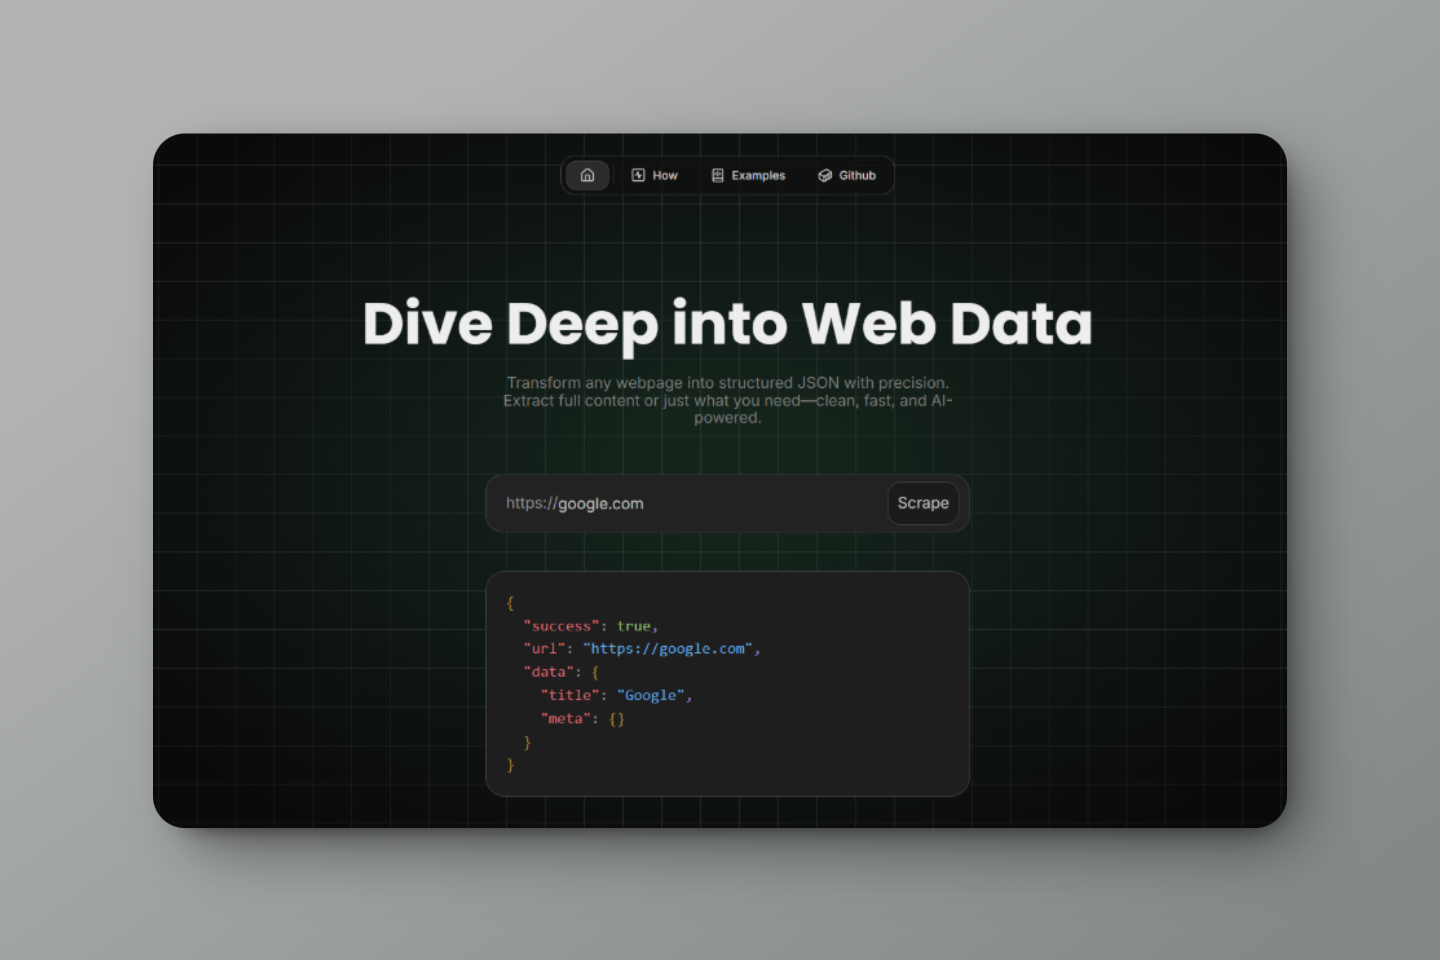
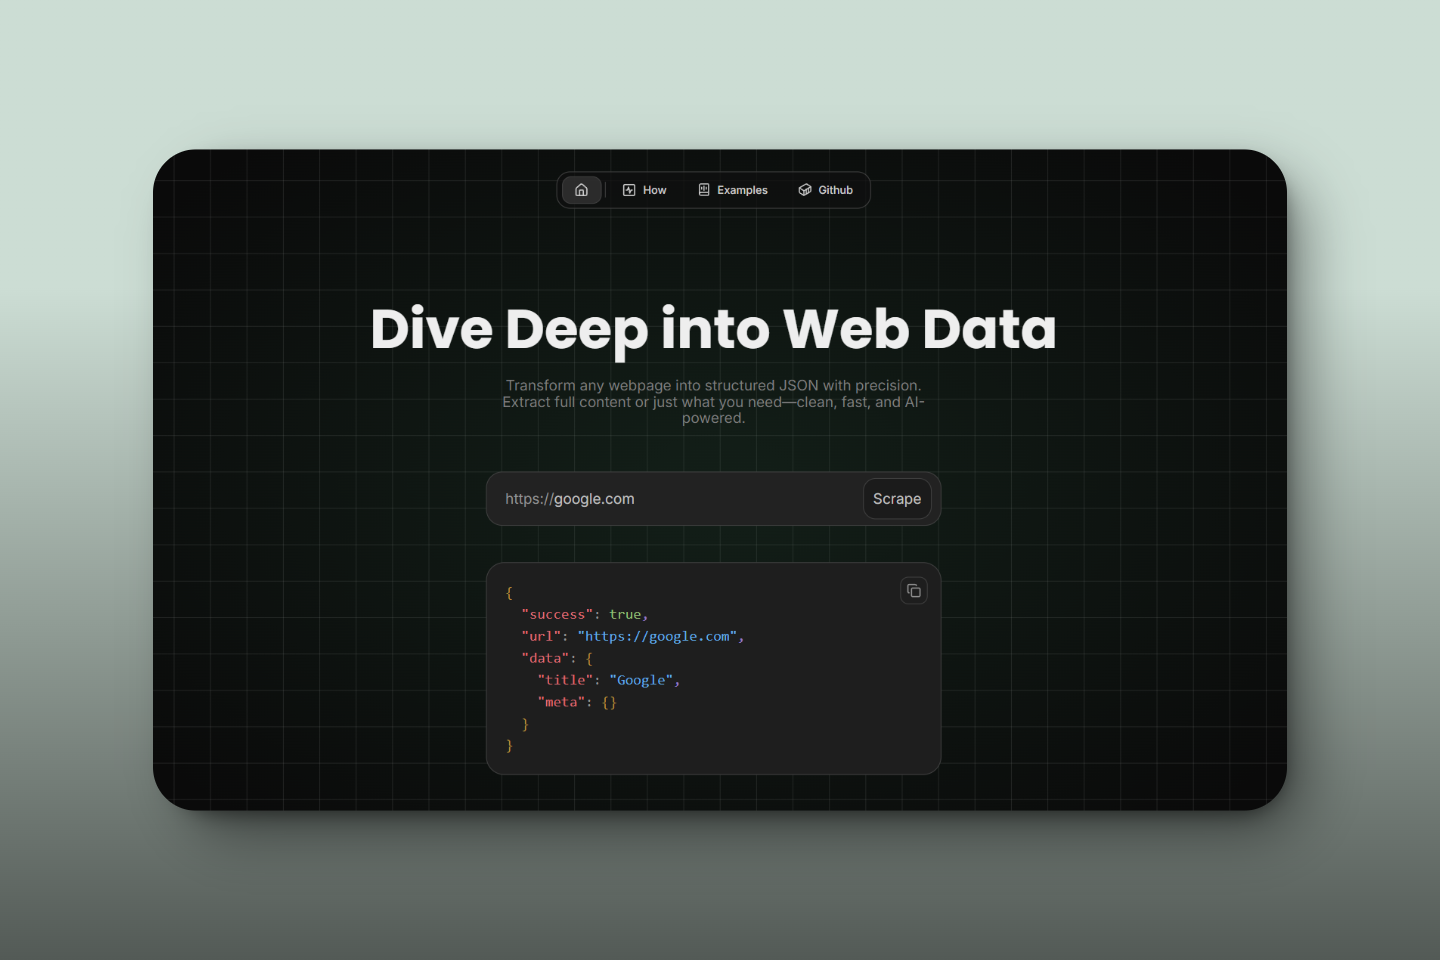
feat: enhance text component with copy functionality
Adds a copy button to the text component for easy copying of JSON 
data. Implements an active state for buttons and input fields. 
Implements Enter key handling for input to trigger scraping and 
clear the URL after a successful scrape. Adjusts background 
gradients for improved visual appearance.

diff --git a/my-ui/text.tsx b/my-ui/text.tsx
@@ -1,4 +1,5 @@
 "use client";
+import { Copy } from "lucide-react";
 import "./text.css";
 import { useState } from "react";
 
@@ -35,6 +36,7 @@ export function Text() {
       // Update with the response data
       setJsonData(data);
       setScrapeStatus(null);
+      setUrl("");
     } catch (error: any) {
       console.error("Error scraping:", error.message);
       setJsonData({ success: false, url, error: error.message });
@@ -79,12 +81,16 @@ export function Text() {
           onChange={(e) => setUrl(e.target.value)}
           value={url}
           spellCheck="false"
+          onKeyPress={(e) => {
+            if (e.key === "Enter") {
+              e.preventDefault();
+              scrapeWebsite();
+              document.activeElement instanceof HTMLElement && document.activeElement.blur();
+              setScrapeStatus(null);
+            }
+          }}
         />
-        <button onClick={scrapeWebsite} className="diveButton" onKeyPress={(e) => {
-          if (e.key === "Enter") {
-            scrapeWebsite();
-          }
-        }} >
+        <button onClick={scrapeWebsite} className="diveButton"  >
           {scrapeStatus ? (
             "Processing..."
           ) : (
@@ -92,7 +98,14 @@ export function Text() {
           )}
         </button>
       </div>
-      <div className="code-container">
+      <div className="code-container"><div className="copy" onClick={() => {
+        const textToCopy = typeof jsonData === 'string' 
+          ? jsonData 
+          : jsonData === null 
+            ? "{}" 
+            : JSON.stringify(jsonData, null, 2);
+        navigator.clipboard.writeText(textToCopy);
+      }}><Copy size={16} /></div>
         <pre dangerouslySetInnerHTML={{ __html: highlightJson(jsonData) }} />
       </div>
     </div>

diff --git a/my-ui/text.css b/my-ui/text.css
@@ -77,6 +77,9 @@
             &:hover {
                 background-color: #1e1e1e;
             }
+            &:active{
+                background-color: #1b1b1b;
+            }
         }
 
         input {
@@ -112,6 +115,7 @@
 }
 
 
+
 .code-container {
     background-color: #1e1e1e;
     width: 500px;
@@ -124,10 +128,33 @@
     color: #949494;
     word-wrap: break-word;
     white-space: pre-wrap;
+    position: relative;
     text-align: left;
     align-items: start;
     justify-content: start;
 
+    .copy{
+        display: flex;
+        position: absolute;
+        right: 14px;
+        top: 15px;
+        cursor: pointer;
+        border: 1px solid #3f3f3f;
+        background-color: transparent;
+        color: #949494;
+        width: 30px;
+        height: 30px;
+        align-items: center;
+        border-radius: 9px;
+        justify-content: center;
+
+        &:hover{
+            background-color: #383838;
+        }
+        &:active{
+            background-color: #3f3f3f;
+        }
+    }
 }
 
 .code-container pre {

diff --git a/app/style.css b/app/style.css
@@ -11,7 +11,7 @@ body {
     /* Base dark color */
 
     background-image:
-        radial-gradient(at 50.24% 47.29%, #35715040 100px 00px, transparent 80%),
+        radial-gradient(at 50.24% 47.29%, #35715030 70px 00px, transparent 80%),
         /* Radial effect */
         linear-gradient(rgba(255, 255, 255, 0.1) 1px, transparent 1px),
         /* Horizontal grid */
